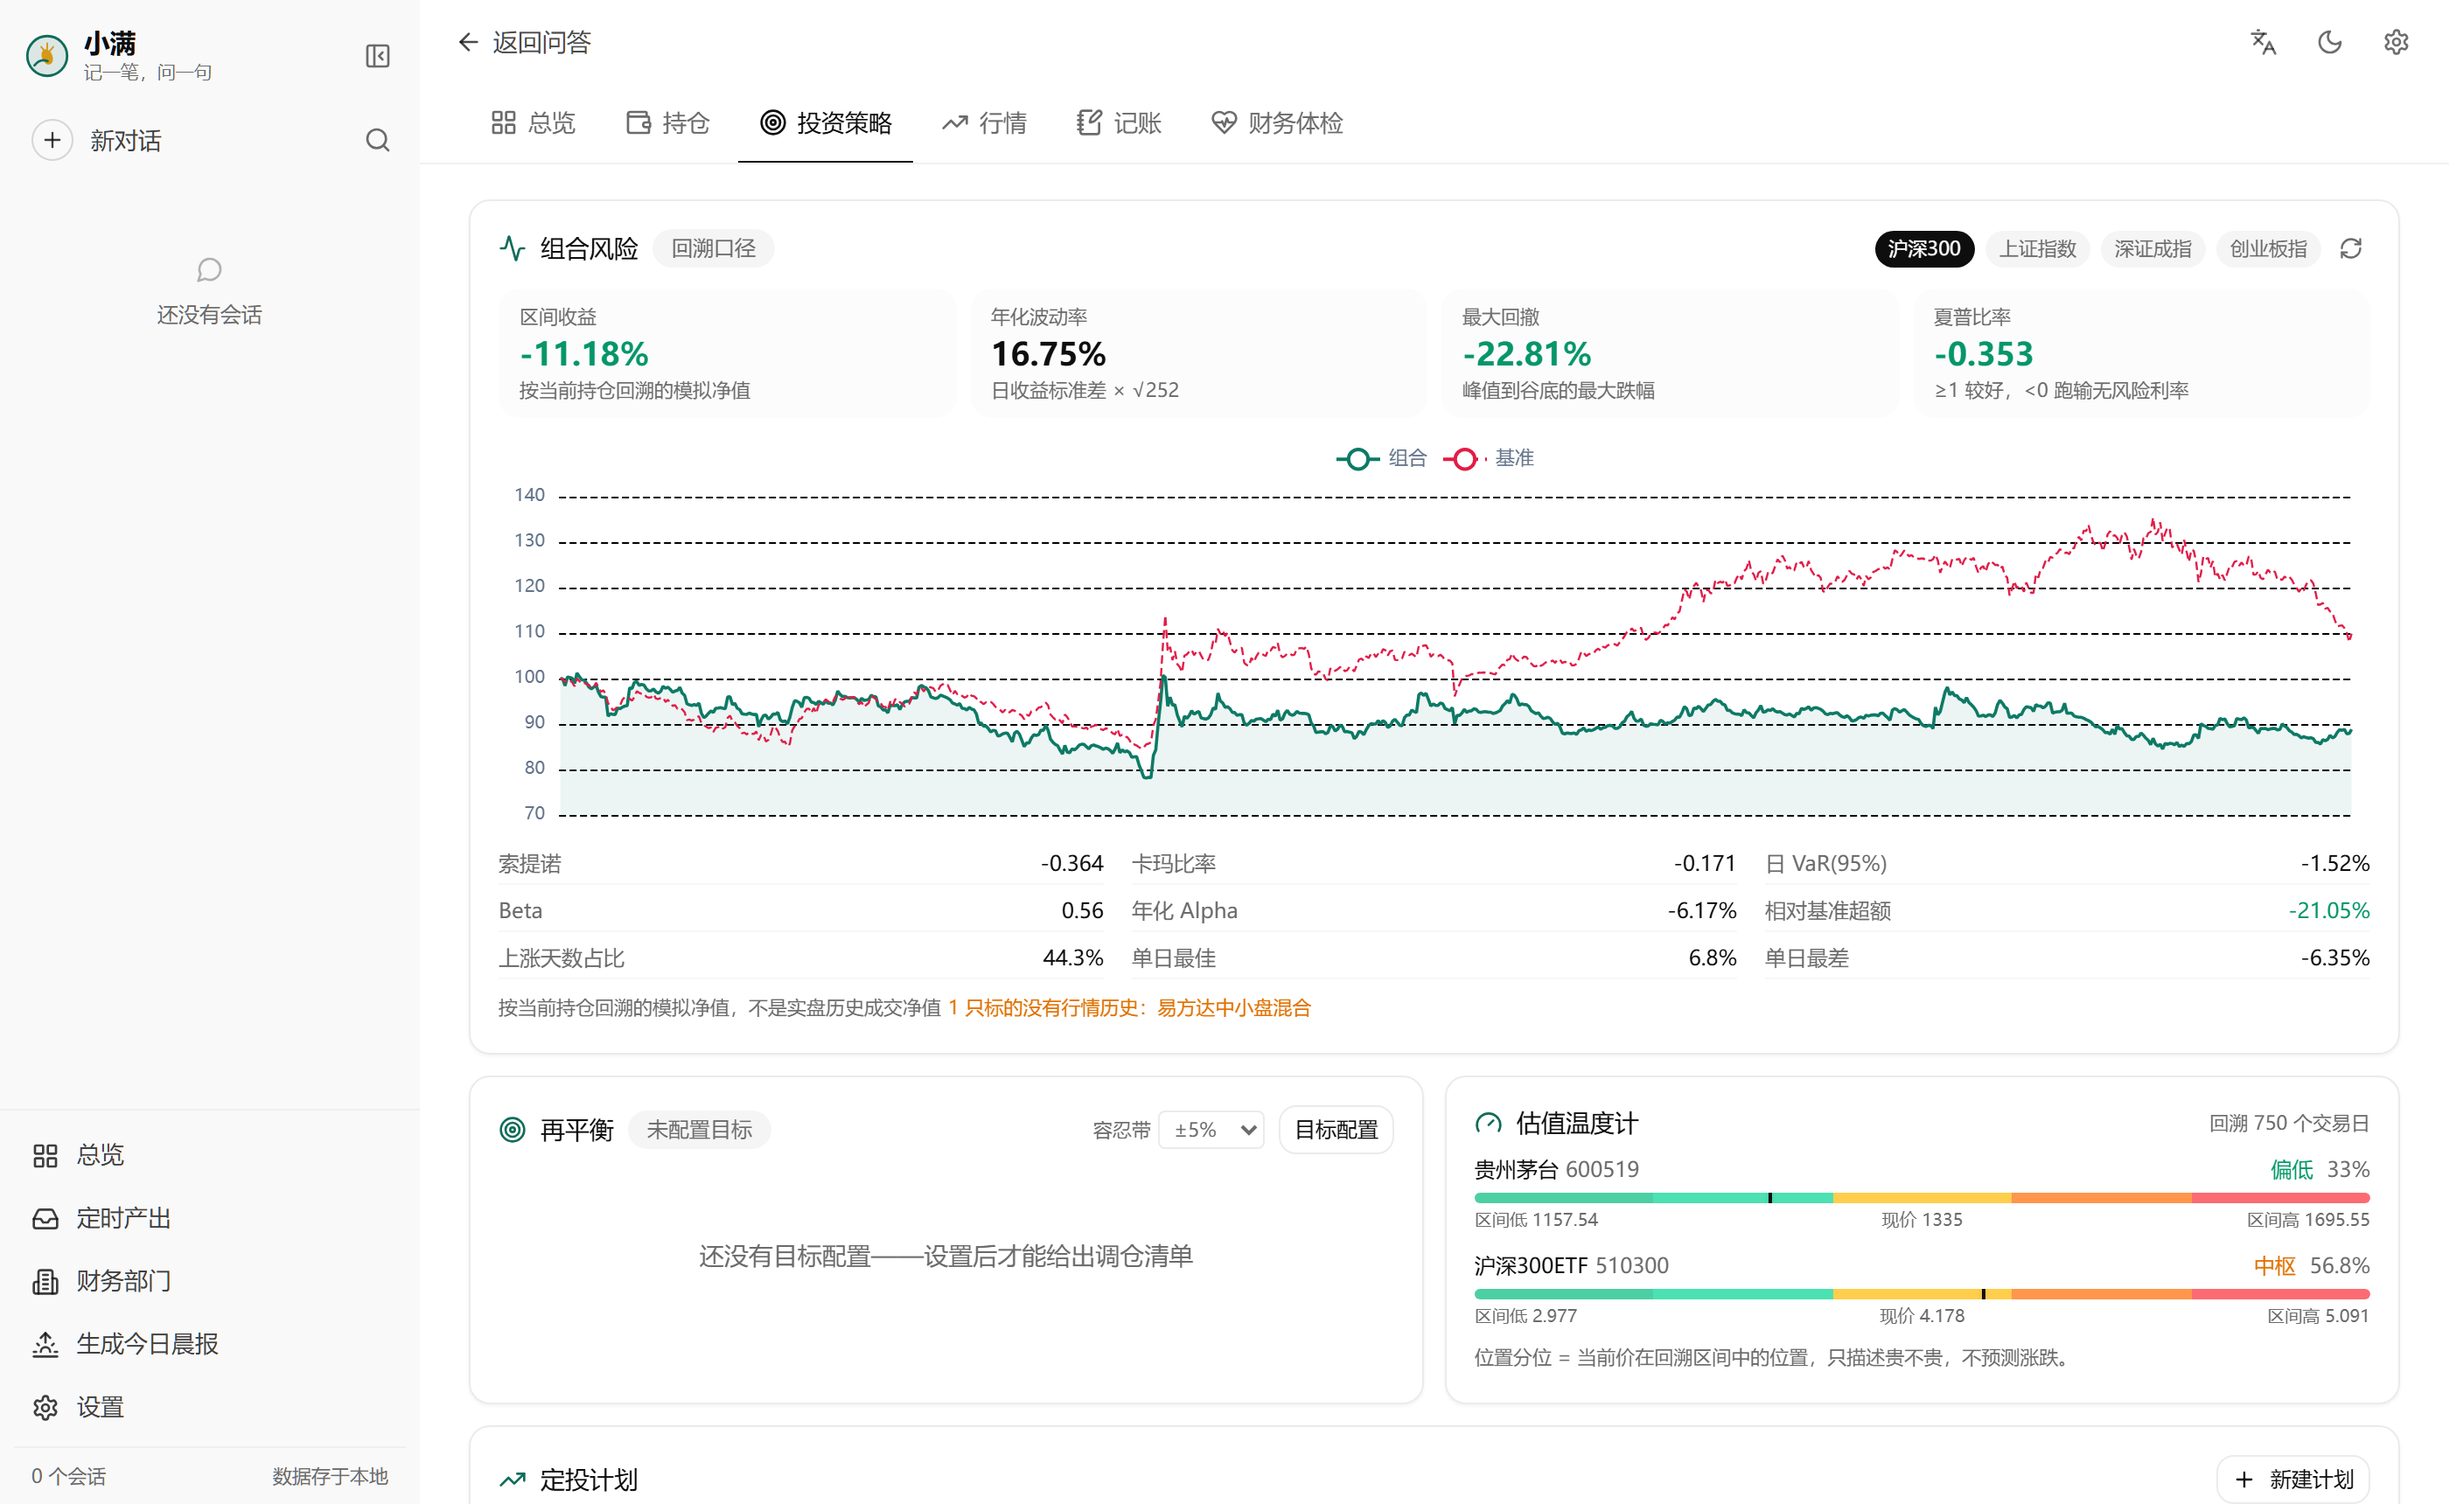
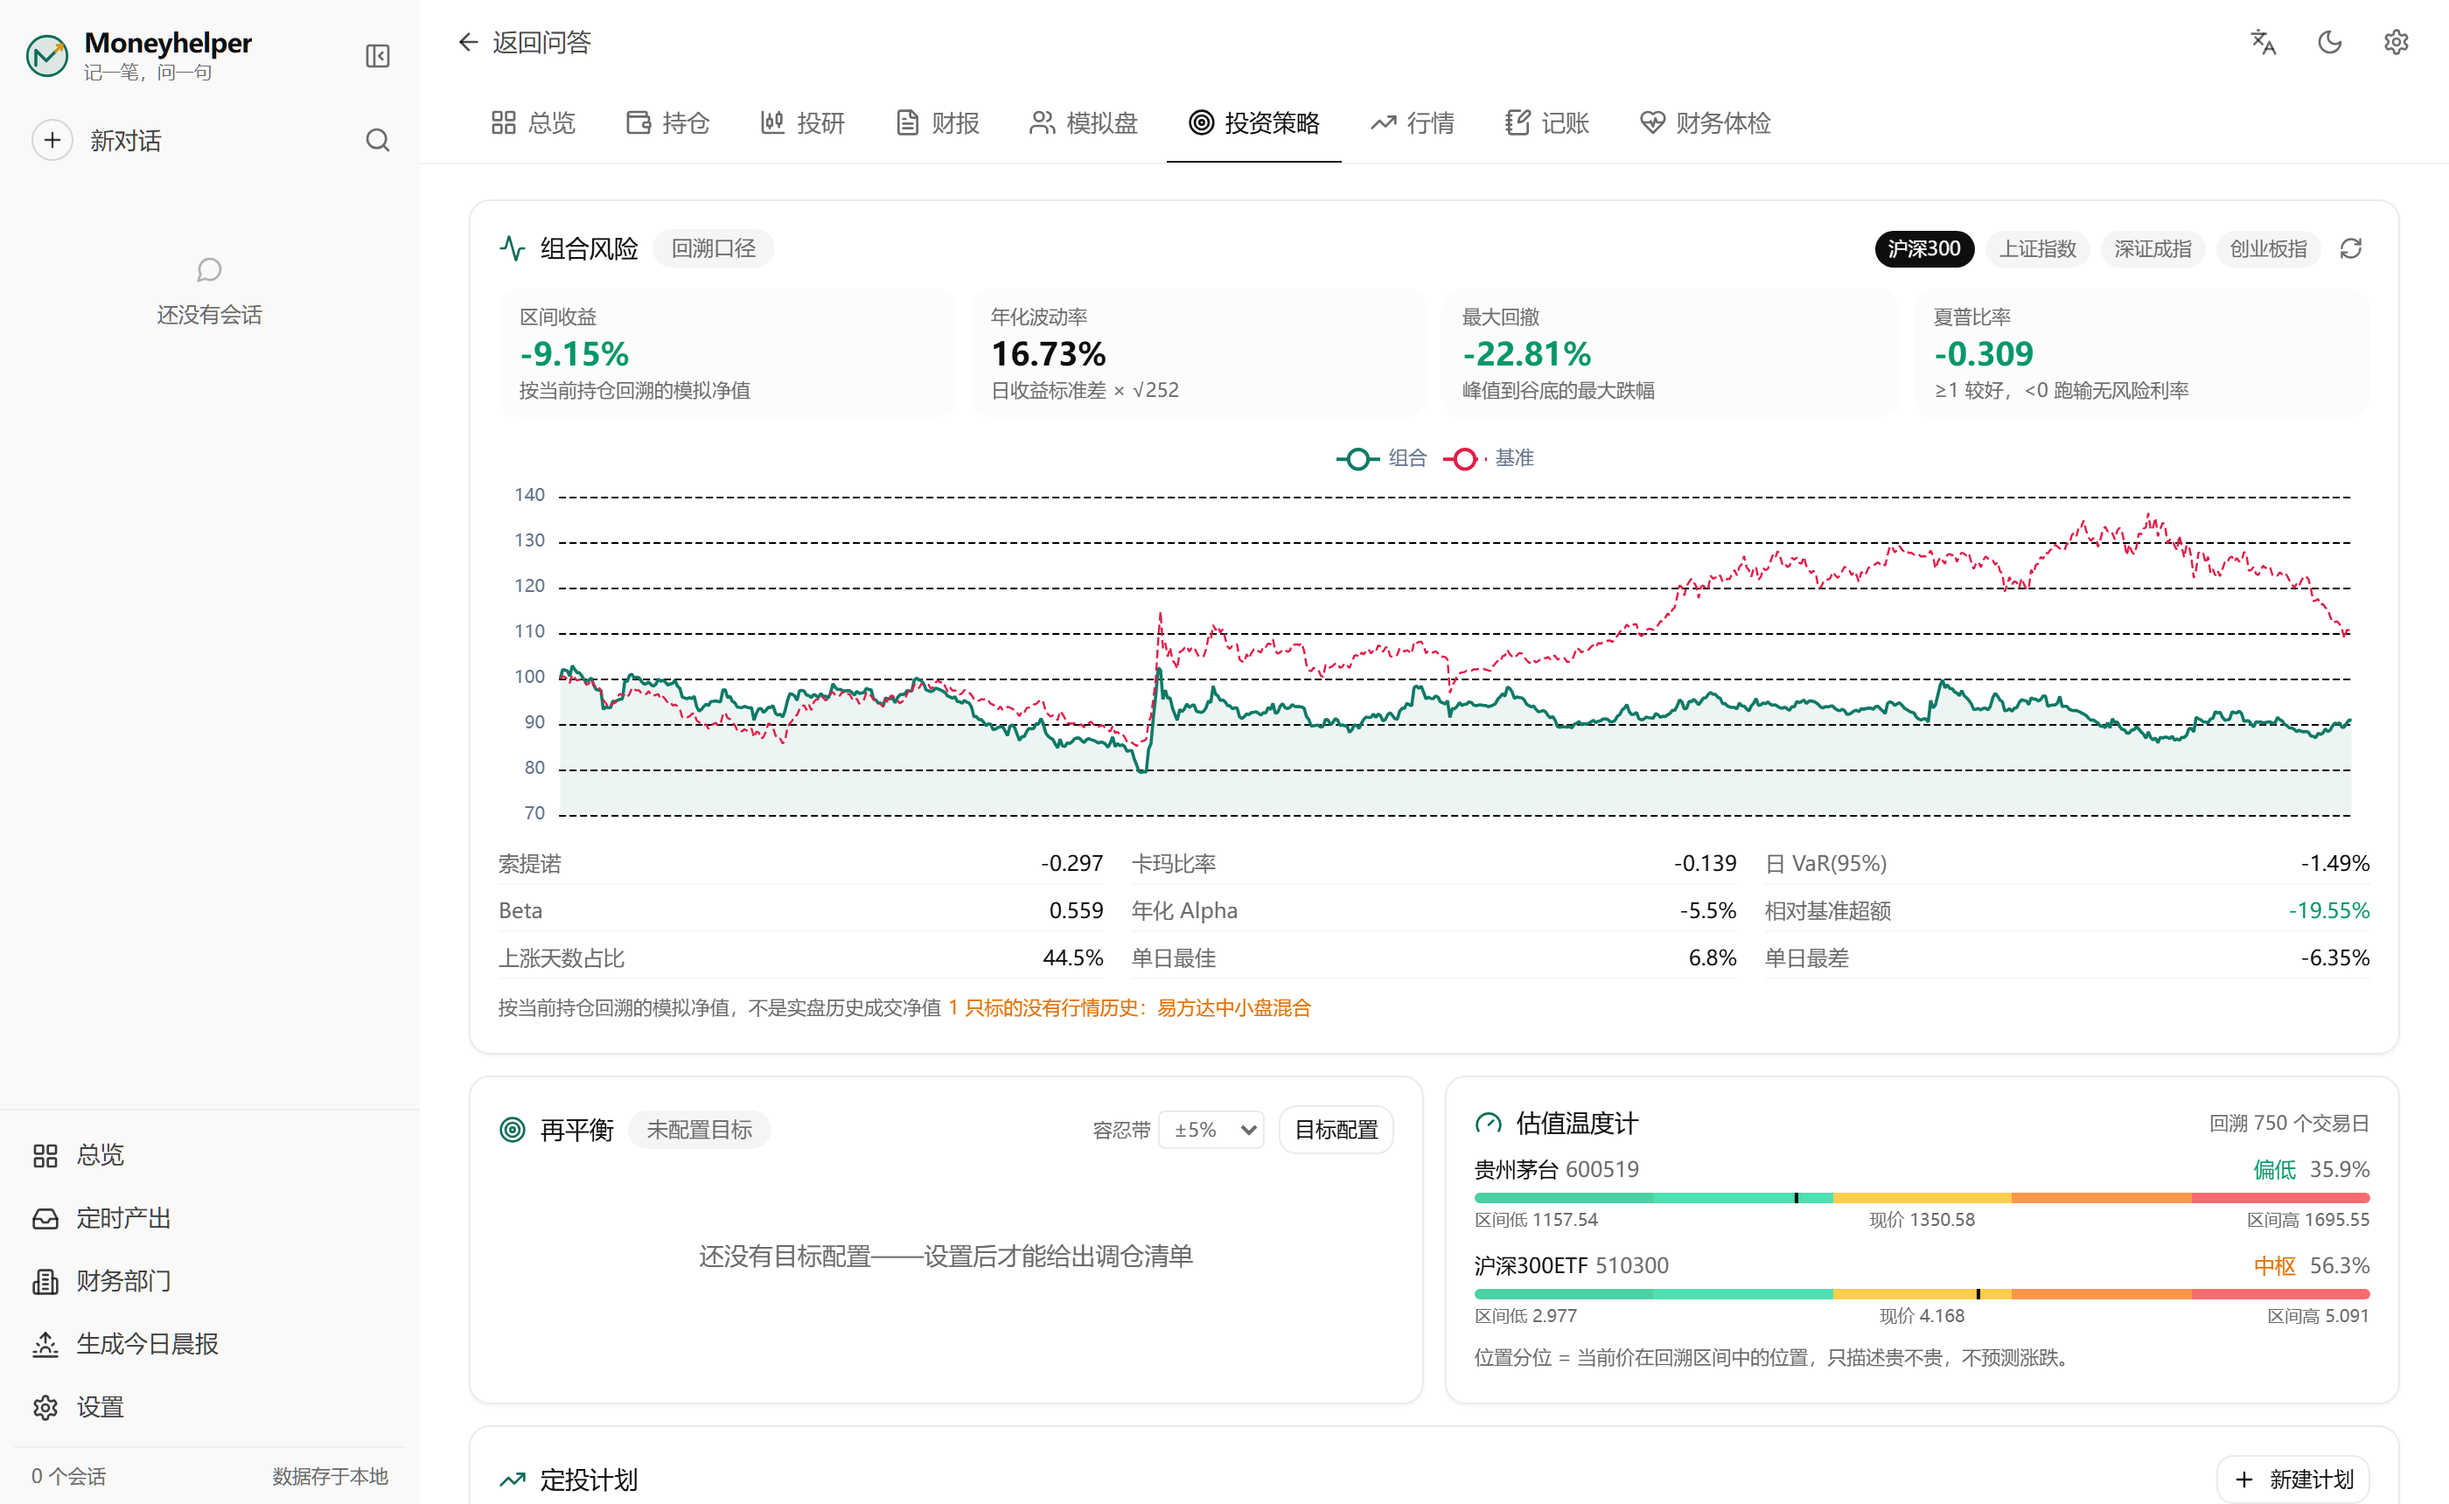
chore: 忽略 .tmp/ 并移除误入版本的验证库文件

diff --git a/frontend/src/components/LoginView.tsx b/frontend/src/components/LoginView.tsx
@@ -75,7 +75,7 @@ export function LoginView({ onAuthed }: { onAuthed: () => void }) {
           <div className="mx-auto mb-3 flex h-16 w-16 items-center justify-center rounded-2xl bg-primary/8 shadow-soft ring-1 ring-primary/15">
             <BrandLogo size={42} />
           </div>
-          <h1 className="text-xl font-semibold text-foreground">{BRAND.name} {BRAND.en}</h1>
+          <h1 className="text-xl font-semibold text-foreground">{BRAND.name}</h1>
           <p className="mt-1.5 text-sm text-muted-foreground text-balance">
             {mode === "login" ? t("auth.loginSubtitle") : t("auth.registerSubtitle")}
           </p>

diff --git a/backend/tests/test_brand.py b/backend/tests/test_brand.py
@@ -50,6 +50,7 @@ COMPAT_ALLOWLIST = {
     Path("backend/tests/test_brand.py"),
     # 升级说明必须写出旧变量名，否则用户不知道该改什么
     Path("docs/CONFIG.md"),
+    Path("CHANGELOG.md"),
 }
 
 

diff --git a/CHANGELOG.md b/CHANGELOG.md
@@ -2,6 +2,29 @@
 
 项目版本号与发布历史。格式遵循 [Keep a Changelog](https://keepachangelog.com/zh-CN/1.0.0/)，版本语义遵循 [Semantic Versioning](https://semver.org/lang/zh-CN/)。
 
+## [Unreleased]
+
+### 变更：品牌更名 Moneyhelper
+
+- 项目名、包名、CLI 命令、Docker 服务/数据卷、PyInstaller 产物、环境变量前缀统一为 Moneyhelper；
+  旧前缀 `XIAOMAN_*` 由 `backend/app/compat_env.py` 兼容读取（新名优先），旧部署升级不会切到空库
+- 仓库内所有对外品牌文案（README / docs / 页面标题 / PWA manifest / 双语 i18n）同步更名
+- Logo 重绘为「M 折线 + 增长箭头」钱币标，重出 icon.svg / 192 / 512 / apple-touch-icon / app.ico
+- 新增 `tests/test_brand.py`：旧品牌零残留成为可执行约束（兼容层与升级说明白名单除外）
+
+### 修复
+
+- `paper_trade` / `paper_overview` agent 工具因缺少 `validate_trade` / `fee_for` / `estimate` /
+  `ranking` / `team_summary` 导入，调用即 `NameError`；补测试覆盖开户→下单→总览全链路
+- `calculations` 门面中 `paper.build_equity_curve` 被 `portfolio_risk` 同名函数覆盖，
+  两种签名互相踩；paper 版改名 `build_snapshot_curve` 显式导出
+- `docs/ARCHITECTURE.md` 与 `docs/architecture.md` 仅大小写不同，Windows 克隆后互相覆盖且
+  mkdocs `--strict` 失败；详版重命名为 `docs/ARCHITECTURE-detail.md`
+- `docs/promo.html` 引用了 6 张不存在的截图；改为实际存在的文件
+- README 的页签数量（八个 → 九个，漏列模拟盘）与代码不一致
+- `frontend/package-lock.json` 版本号停留在 3.0.0，与 `package.json`/`version.py` 漂移
+- 后端 ruff 在 main 上 38 项报错（未用导入、同名重定义、未定义名等），CI 红灯
+
 ## [4.2.0] - 2026-10-27（团队模拟盘：多成员炒股看板，事件溯源内核）
 
 > 延续 4.0/4.1 原则：**所有数字由代码重放算出，不是模型编的**。这次把「人」引进来——

diff --git a/README.md b/README.md
@@ -22,7 +22,7 @@ docker compose up -d --build     # http://localhost:8787
 ```
 
 ```bash
-# Or run locally (Python 3.10+ / Node 18+): one command — venv + pip install + SPA build + serve on 8788
+# Or run locally (Python 3.10+ / Node 20.19+): one command — venv + pip install + SPA build + serve on 8788
 scripts/dev.sh --prod
 ```
 
@@ -162,7 +162,7 @@ More in [docs/screenshots/](docs/screenshots/).
 
 ## Quick start
 
-Requirements: Python 3.10+, Node.js 18+.
+Requirements: Python 3.10+, Node.js 20.19+.
 
 **Fastest path (Docker)**
 
